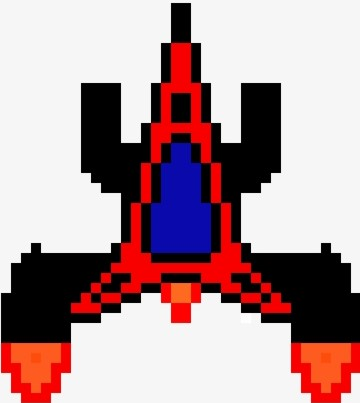
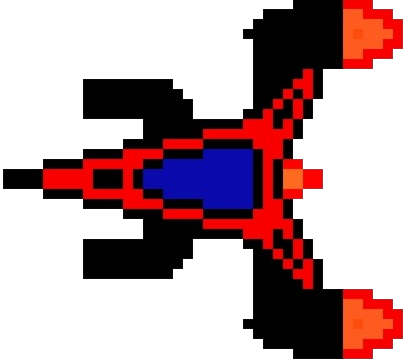
more codin
adjust and add more pictures
coded bullets, fireball, and enemy ship

diff --git a/spaceship.py b/spaceship.py
@@ -16,7 +16,7 @@ class Ship(pg.sprite.Sprite):
 
 	def __init__(self):
 		pg.sprite.Sprite.__init__(self)
-		self.image = pg.image.load("ship.jpg")
+		self.image = pg.image.load("ship.png")
 		self.image = pg.transform.scale(self.image,(126,94))
 		self.rect = self.image.get_rect()
 		self.rect.x = 50
@@ -31,11 +31,13 @@ class Ship(pg.sprite.Sprite):
 		self.rect.y += self.speed
 
 
+
+
 class Rocket(pg.sprite.Sprite):
 
 	def __init__(self,y):
 		pg.sprite.Sprite.__init__(self)
-		self.image = pg.image.load("rocket.jfif")
+		self.image = pg.image.load("rocket.png")
 		self.image = pg.transform.scale(self.image,(100,60))
 		self.x = 1450
 		self.speed = 20
@@ -81,22 +83,136 @@ class Rock(pg.sprite.Sprite):
 	def update(self):
 		self.rect.x -= self.speed
 
+class Bullet(pg.sprite.Sprite):
+
+	def __init__(self,y):
+		pg.sprite.Sprite.__init__(self)
+		self.image = pg.image.load('bullet.png')
+		self.image = pg.transform.scale(self.image,(37,17))
+		self.x =146
+		self.y = shipy
+		self.speed = 30
+		self.rect = self.image.get_rect()
+		self.rect.x = 146
+		self.rect.y = shipy + 38
+
+	def update(self):
+		self.rect.x += self.speed
+
+
+class Redship(pg.sprite.Sprite):
+
+	def __init__(self,y):
+		pg.sprite.Sprite.__init__(self)
+		self.image = pg.image.load('enemyship.png')
+		self.image = pg.transform.scale(self.image,(140,126))
+		self.x = 1450
+		self.y = redshipy
+		self.speed = 5
+		self.rect = self.image.get_rect()
+		self.rect.x = 1450
+		self.rect.y = redshipy
+
+	def update(self):
+		self.rect.x -= self.speed
+
+
+class Grayship(pg.sprite.Sprite):
+
+	def __init__(self,y):
+		pg.sprite.Sprite.__init__(self)
+		self.image = pg.image.load('othership.png')
+		self.image = pg.transform.scale(self.image,(140,140))
+		self.x = 1450
+		self.y = grayshipy
+		self.speed = 8
+		self.rect = self.image.get_rect()
+		self.rect.x = 1450
+		self.rect.y = grayshipy
+
+	def update(self):
+		self.rect.x -= self.speed
+
+
+class Redbiu(pg.sprite.Sprite):
+
+	def __init__(self,y):
+		pg.sprite.Sprite.__init__(self)
+		self.image = pg.image.load('enemybiu.png')
+		self.image = pg.transform.scale(self.image,(42,30))
+		self.x = redshipx
+		self.y = redshipy
+		self.speed = 30
+		self.rect = self.image.get_rect()
+		self.rect.x = redshipx
+		self.rect.y = redshipy
+
+	def update(self):
+		self.rect.x -= self.speed
+
+
+class Graybiu(pg.sprite.Sprite):
+
+	def __init__(self,y):
+		pg.sprite.Sprite.__init__(self)
+		self.image = pg.image.load('enemybiu.png')
+		self.image = pg.transform.scale(self.image,(42,30))
+		self.x = grayshipx
+		self.y = grayshipy
+		self.speed = 30
+		self.rect = self.image.get_rect()
+		self.rect.x = grayshipx
+		self.rect.y = grayshipy
+
+	def update(self):
+		self.rect.x -= self.speed
+
+
+class Fireball(pg.sprite.Sprite):
+
+	def __init__(self,y):
+		pg.sprite.Sprite.__init__(self)
+		self.image = pg.image.load('fireball.png')
+		self.image = pg.transform.scale(self.image,(300,150))
+		self.x =1450
+		self.y = firebally
+		self.speed = 15
+		self.rect = self.image.get_rect()
+		self.rect.x = 1450
+		self.rect.y = firebally
+
+	def update(self):
+		self.rect.x -= self.speed
 
 enemy = 0
+allsprite = pg.sprite.Group()
+crashing = pg.sprite.Group()
+# from here
+redshipy = random.randint(0,674)
+grayshipy = random.randint(0,660)
+firebally = random.randint(0,650)
 rockey = random.randint(0,740)
 meteoy = random.randint(0,700)
 rocy = random.randint(0,728)
-allsprite = pg.sprite.Group()
-crashing = pg.sprite.Group()
+redship = Redship(redshipy)
+grayship = Grayship(grayshipy)
+fireball = Fireball(firebally)
 rocket = Rocket(rockey)
 meteor = Meteor(meteoy)
 rock = Rock(rocy)
+crashing.add(redship)
+crashing.add(grayship)
 crashing.add(rocket)
 crashing.add(meteor)
 crashing.add(rock)
+crashing.add(fireball)
+allsprite.add(redship)
+allsprite.add(grayship)
 allsprite.add(rocket)
 allsprite.add(meteor)
 allsprite.add(rock)
+allsprite.add(fireball)
+# to here
 ship = Ship()
 allsprite.add(ship)
 allsprite.draw(screen)
@@ -113,18 +229,32 @@ while running:
 	clock.tick(60)
 	crash = pg.sprite.spritecollide(ship, crashing, True)
 	if enemy > 120:
+		# from here
+		redshipy = random.randint(0,674)
+		grayshipy = random.randint(0,660)
+		firebally = random.randint(0,650)
 		rockey = random.randint(0,740)
 		meteoy = random.randint(0,700)
 		rocy = random.randint(0,728)
+		redship = Redship(redshipy)
+		grayship = Grayship(grayshipy)
+		fireball = Fireball(firebally)
 		rocket = Rocket(rockey)
 		meteor = Meteor(meteoy)
 		rock = Rock(rocy)
+		crashing.add(redship)
+		crashing.add(grayship)
 		crashing.add(rocket)
 		crashing.add(meteor)
 		crashing.add(rock)
+		crashing.add(fireball)
+		allsprite.add(redship)
+		allsprite.add(grayship)
 		allsprite.add(rocket)
 		allsprite.add(meteor)
 		allsprite.add(rock)
+		allsprite.add(fireball)
+		# to here
 		enemy = 0		
 	enemy += 1
 	text = font.render('score:' + str(score), True, (212,201,106))
@@ -134,16 +264,21 @@ while running:
 	bg = pg.transform.scale(bg,(1400,800))
 	bg.blit(text,(130,10))
 	pg.display.update()
-	allsprite.update()
+	
 	keys = pg.key.get_pressed()
 	if keys[pg.K_s]:
 		if ship.rect.y <= 674:
 			Ship.movedown(ship)
-	elif keys[pg.K_w]:
+	if keys[pg.K_w]:
 		if ship.rect.y >= 0:
 			Ship.moveup(ship)
+	if keys[pg.K_SPACE]:
+		shipy = ship.rect.y
+		bullet = Bullet(shipy)
+		allsprite.add(bullet)
 	if crash:
 		running = False
+	allsprite.update()
 	screen.blit(bg, (0,0))
 	allsprite.draw(screen)
 	for event in pg.event.get():
